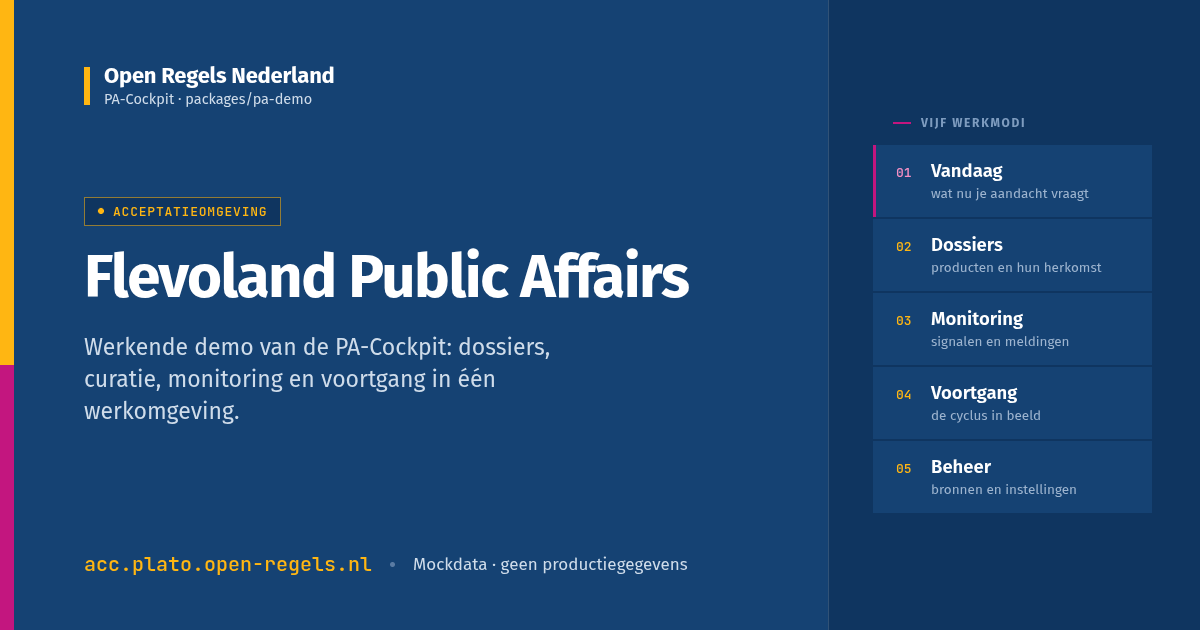
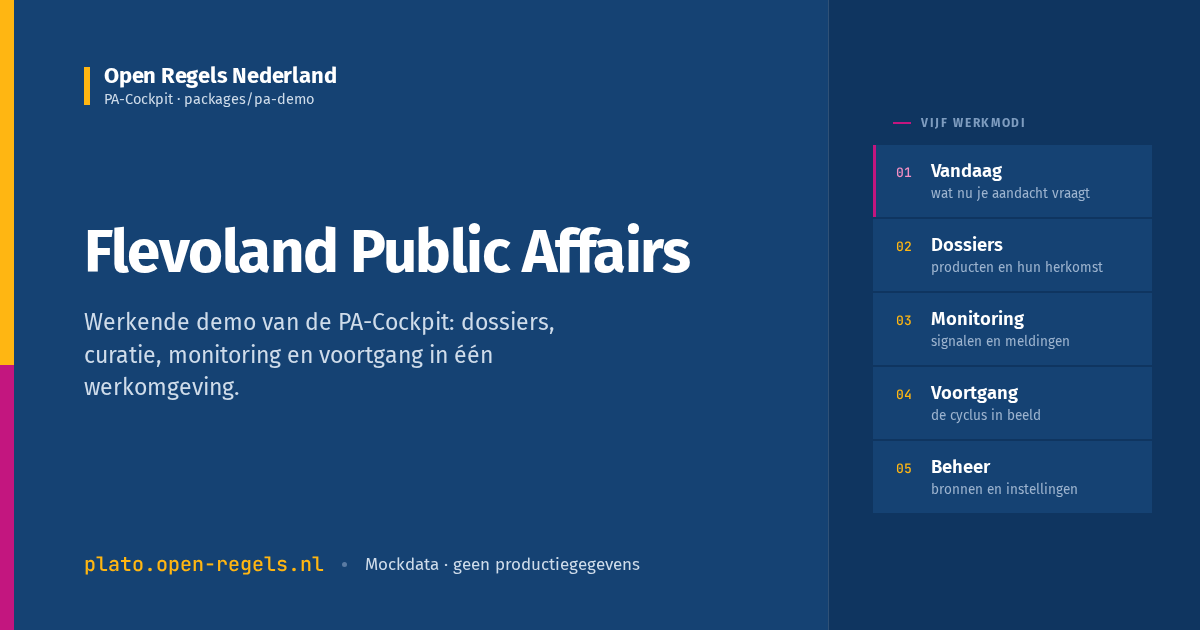
fix(pa-demo): the social card reads production
The Open Graph card shipped with acceptance baked into its pixels: an ACCEPTATIEOMGEVING badge and acc.plato.open-regels.nl in its footer. Deployed to production unchanged, it would have read ACC while og:url read PROD. Re-captured from the reference HTML at 1x (1200x630) with the badge dropped and the footer set to plato.open-regels.nl, and both copies replaced. One asset serves every tier, so ACC previews now show the production hostname in the image; the comments in index.html and social-card-origin.ts and the go-live checklist say so.

diff --git a/docs/pa-demo-social-handoff/reference/social-card-pa-demo.html b/docs/pa-demo-social-handoff/reference/social-card-pa-demo.html
@@ -41,10 +41,9 @@ h1{margin:0;font-size:60px;line-height:1.05;letter-spacing:-.025em;max-width:20c
 <div class="bar"></div>
 <div class="left">
 <div class="wordmark"><i></i><span><b>Open Regels Nederland</b><span>PA-Cockpit · packages/pa-demo</span></span></div>
-<p class="badge"><s></s>Acceptatieomgeving</p>
 <h1>Flevoland Public Affairs</h1>
 <p class="lede">Werkende demo van de PA-Cockpit: dossiers, curatie, monitoring en voortgang in één werkomgeving.</p>
-<div class="foot"><span class="url">acc.plato.open-regels.nl</span><span class="dot"></span><span class="tag">Mockdata · geen productiegegevens</span></div>
+<div class="foot"><span class="url">plato.open-regels.nl</span><span class="dot"></span><span class="tag">Mockdata · geen productiegegevens</span></div>
 </div>
 <div class="right">
 <div class="rowh"><s></s>Vijf werkmodi</div>
@@ -55,6 +54,6 @@ h1{margin:0;font-size:60px;line-height:1.05;letter-spacing:-.025em;max-width:20c
 <div class="row"><span class="n">05</span><span><b>Beheer</b><span>bronnen en instellingen</span></span></div>
 </div>
 </div>
-<div class="hint">1200 × 630 — Open Graph / Twitter card voor de PA-Cockpit demo op de acceptatieomgeving.</div>
+<div class="hint">1200 × 630 — Open Graph / Twitter card voor de PA-Cockpit demo op plato.open-regels.nl.</div>
 </body>
 </html>

diff --git a/packages/pa-demo/scripts/social-card-origin.ts b/packages/pa-demo/scripts/social-card-origin.ts
@@ -19,11 +19,11 @@
  * build tooling, and nothing in the app's module graph should be able to import
  * a table of deploy origins.
  *
- * NOTE — this rewrites text, not pixels. The shipped og-pa-demo.png has its
- * environment baked in: an "ACCEPTATIEOMGEVING" badge and the acc. hostname in
- * its footer. Producing the production card is a manual re-capture, documented
- * in docs/pa-demo-social-handoff/reference/README.md, and must happen before
- * the first PROD deploy or the card will read ACC while og:url reads PROD.
+ * NOTE — this rewrites text, not pixels. og-pa-demo.png is the production card
+ * (no environment badge, plato.open-regels.nl in its footer) and ships to every
+ * tier, so an ACC link preview shows the production hostname in the image while
+ * og:url reads ACC. That is the accepted trade for one sitewide asset. The
+ * re-capture procedure is in docs/pa-demo-social-handoff/reference/README.md.
  */
 
 export type BuildMode = 'development' | 'acceptance' | 'production';

diff --git a/packages/pa-demo/index.html b/packages/pa-demo/index.html
@@ -24,9 +24,11 @@
       acceptance build does not advertise a domain that is not live yet. See
       scripts/social-card-origin.ts.
 
-      The image itself is environment-specific too (it carries an
-      ACCEPTATIEOMGEVING badge and the acc. hostname), and swapping it for
-      production is a manual re-capture — see the handoff's reference/README.md.
+      The image is the production card on every tier: no environment badge,
+      plato.open-regels.nl in its footer. So an ACC preview shows the production
+      hostname in its pixels while og:url reads ACC — the accepted trade for one
+      sitewide asset. To change the card, edit the reference HTML and re-capture
+      per the handoff's reference/README.md.
     -->
     <meta property="og:type" content="website" />
     <meta property="og:site_name" content="Open Regels Nederland" />

diff --git a/docs/PA-DEMO-GO-LIVE.md b/docs/PA-DEMO-GO-LIVE.md
@@ -95,11 +95,12 @@ origin and `vite.config.ts`'s `transformIndexHtml` plugin rewrites `og:url` and
 covered by unit tests and by an E2E test that compares them against the run's own
 base origin).
 
-**The image is not.** The shipped PNG has acceptance baked into its pixels: an
-`ACCEPTATIEOMGEVING` badge and `acc.plato.open-regels.nl` in its footer. Deploying
-it to production unchanged yields a card reading ACC while `og:url` reads PROD.
+**The image is not.** It is one asset for every tier. It first shipped with
+acceptance baked into its pixels — an `ACCEPTATIEOMGEVING` badge and
+`acc.plato.open-regels.nl` in its footer — and deploying that to production would
+have yielded a card reading ACC while `og:url` read PROD.
 
-- [ ] Re-capture the production card before the first PROD deploy. Two edits in
+- [x] Re-capture the production card before the first PROD deploy. Two edits in
       `docs/pa-demo-social-handoff/reference/social-card-pa-demo.html` — drop the
       `<p class="badge">` and change the `<span class="url">` to
       `plato.open-regels.nl` — then capture `#card` at exactly 1× (1200×630) and
@@ -182,8 +183,9 @@ Quick manual checks that catch the common deploy faults:
 - [ ] Beheer shows **nine** sections, with no IOU group and no Hulpmiddelen.
 - [ ] Paste the site URL into a link-preview validator (or Slack) and confirm the
       card renders. The E2E test proves `og:image` resolves to a real PNG on this
-      origin; only a scraper proves the preview itself composes. On ACC the card
-      should read `ACCEPTATIEOMGEVING` — on PROD it must not (§3b).
+      origin; only a scraper proves the preview itself composes. Since the §3b
+      re-capture the card reads production on every tier, ACC included;
+      `ACCEPTATIEOMGEVING` must not appear anywhere.
 
 Note that a 404-shaped URL returns **200 serving the SPA shell**, because `.json`
 and most extensions are not in `navigationFallback`'s exclude list. Check the
